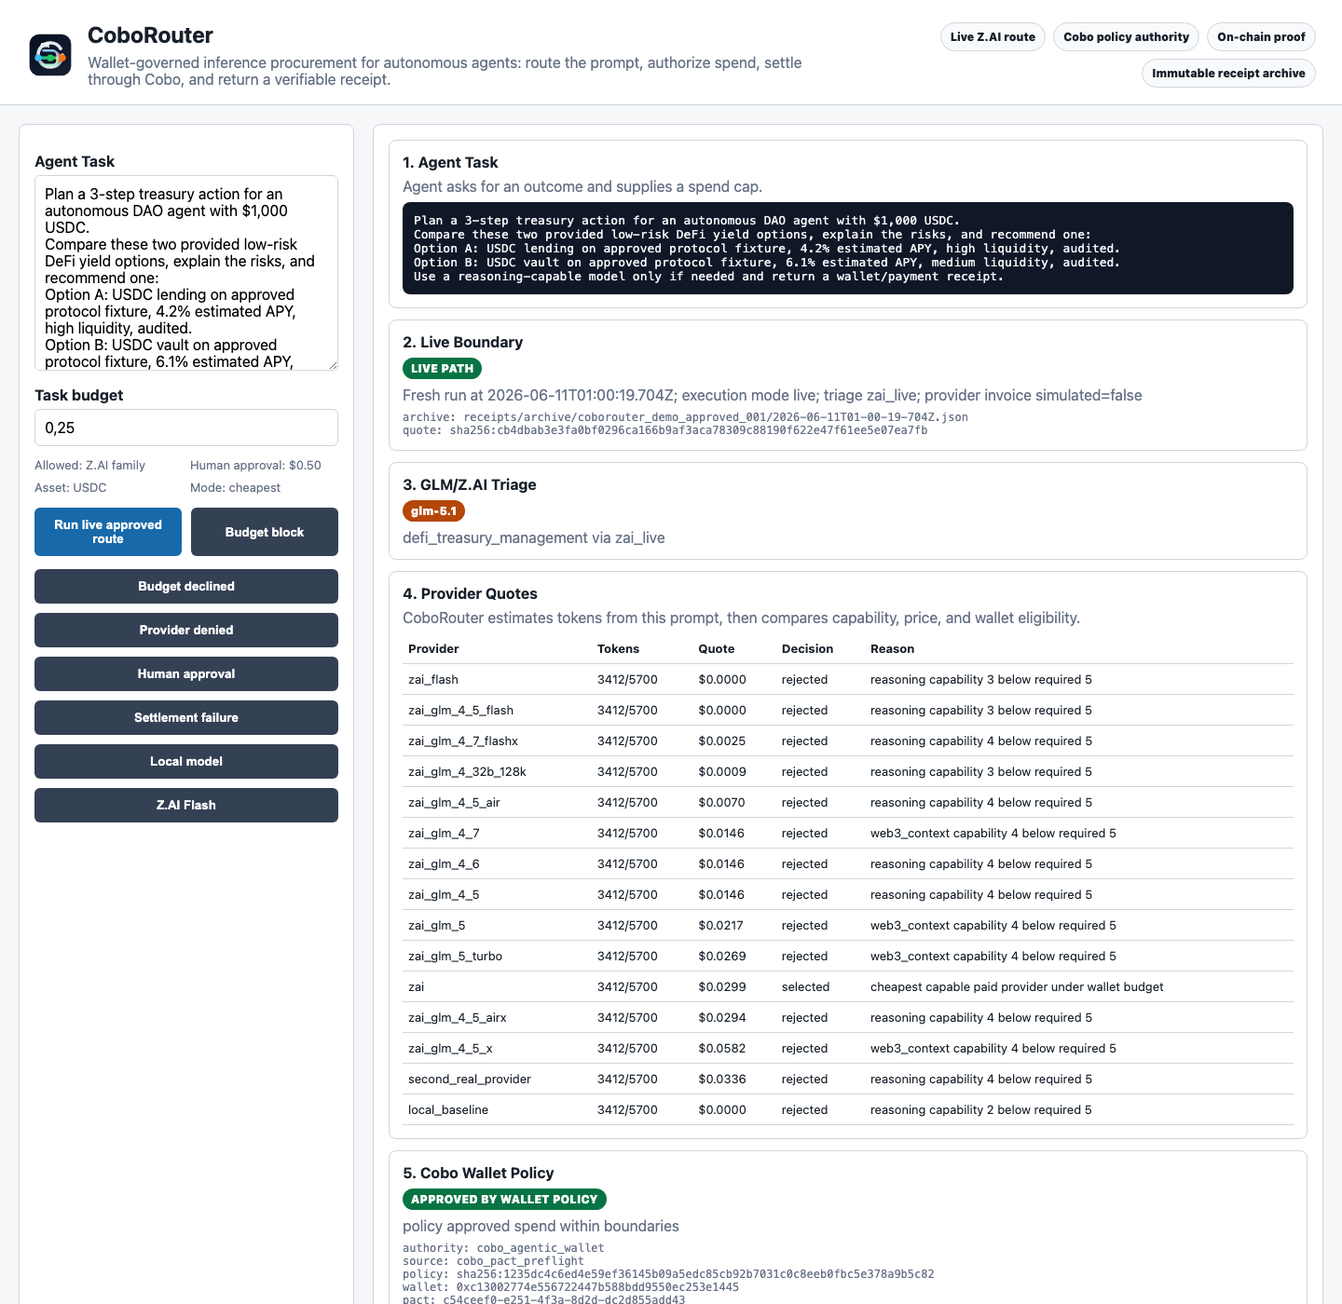
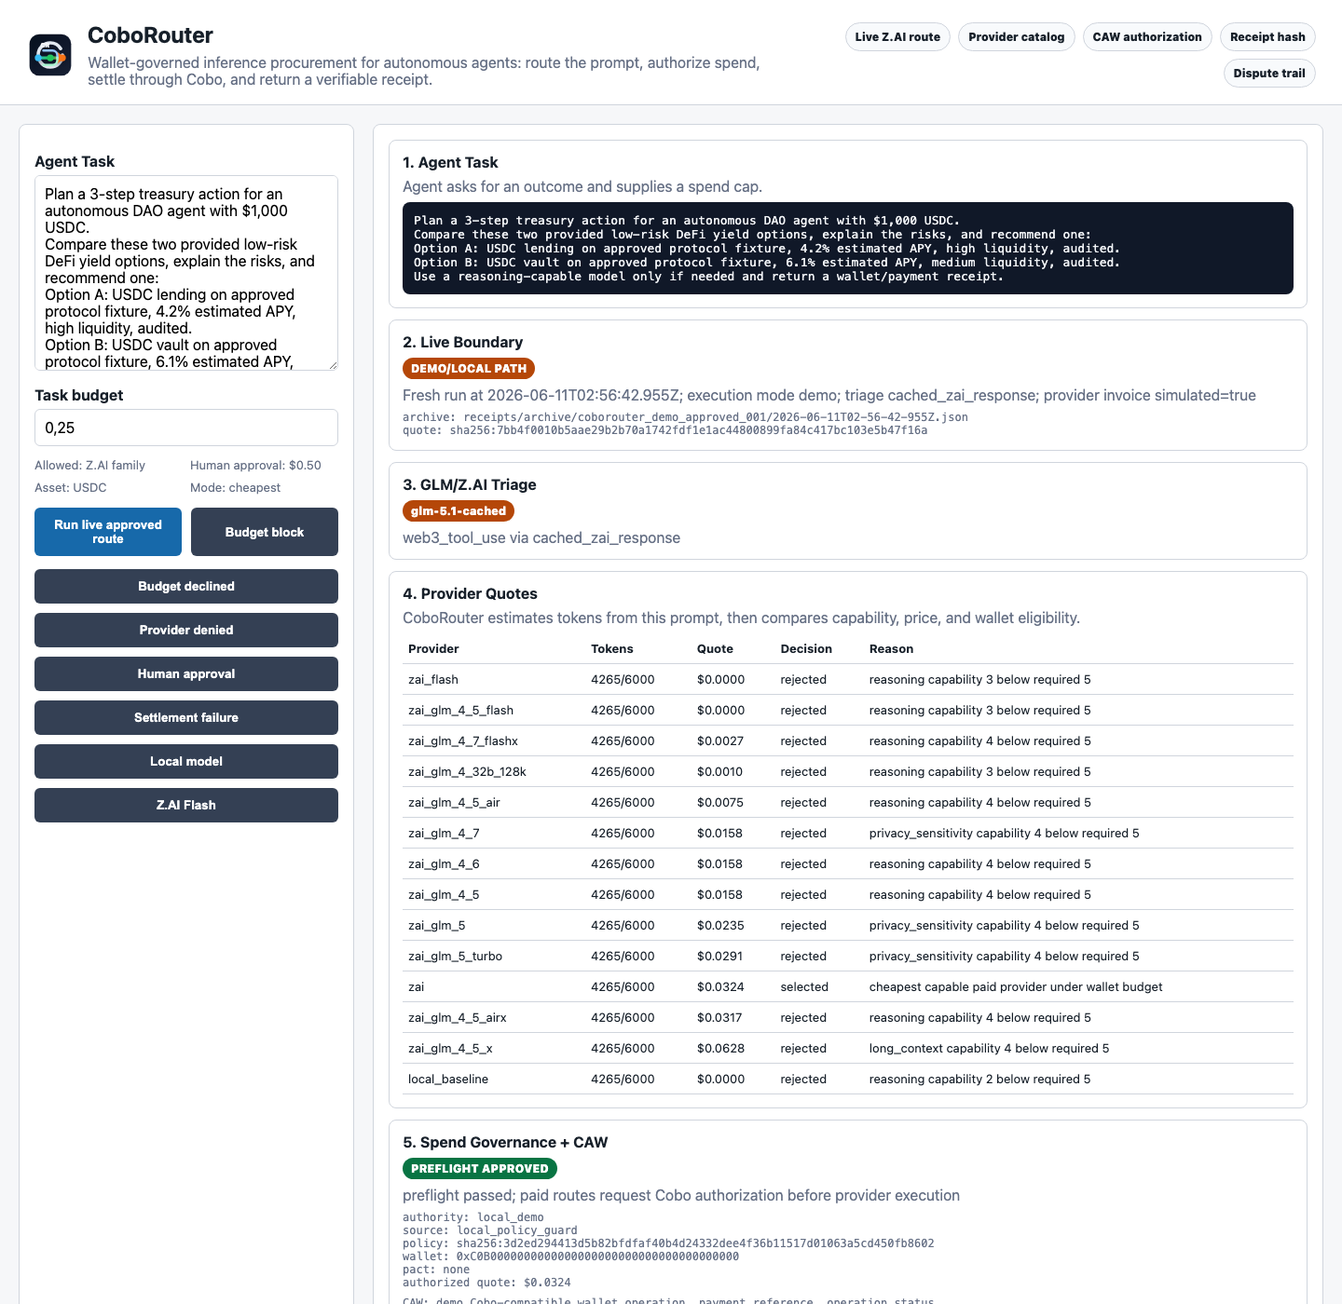
Clarify wallet authority boundaries
Make CoboRouter's proof story stricter for judges: local demo receipts now verify as Cobo operation proof without synthetic explorer links, and product copy/UI separates pre-wallet spend governance from CAW authorization and settlement.

Constraint: Hackathon judges flagged ambiguity between local preflight, demo proof, and live Cobo Agentic Wallet authority.

Rejected: Keep forcing local CI through COBO_PROOF_TYPE=on_chain | It produced synthetic explorer evidence and weakened reproducibility.

Confidence: high

Scope-risk: narrow

Directive: Reserve tx hash and explorer proof claims for live Cobo transfer receipts; blocked paths should describe pre-wallet governance unless CAW itself denies them.

Tested: npm run check; npm run secret:scan; temp no-env npm run ci:local; npm run check:live; npm run verify:receipt -- receipts/coborouter_demo_approved_001.json; npm run verify:receipt -- receipts/coborouter_demo_blocked_001.json; git diff --check

Not-tested: Fresh GitHub Actions result pending until push.

diff --git a/src/demo/timelineUi.tsx b/src/demo/timelineUi.tsx
@@ -263,7 +263,7 @@ Use a reasoning-capable model only if needed and return a wallet/payment receipt
         return;
       }
       if (scenario === "simple_zai") {
-        promptInput.value = "Summarize this product in one friendly sentence: CoboRouter helps agents choose and pay for inference under wallet policy.";
+        promptInput.value = "Summarize this product in one friendly sentence: CoboRouter helps agents choose, authorize, and pay for inference with wallet-governed receipts.";
         budgetInput.value = "0.01";
         return;
       }
@@ -297,12 +297,12 @@ Use a reasoning-capable model only if needed and return a wallet/payment receipt
       latestReceiptJson = JSON.stringify(response, null, 2);
       const blocked = response.status === "blocked" || response.status === "requires_human_approval" || response.status === "paid_failed" || response.status === "failed";
       const walletStatus = response.status === "requires_human_approval"
-        ? { className: "pending", label: "HUMAN APPROVAL REQUIRED" }
+        ? { className: "pending", label: "PRE-WALLET HUMAN APPROVAL" }
         : response.status === "paid_failed" || response.status === "failed"
           ? { className: "blocked", label: "FAILED SAFELY" }
           : response.status === "blocked"
-            ? { className: "blocked", label: "BLOCKED BY WALLET POLICY" }
-            : { className: "approved", label: "APPROVED BY WALLET POLICY" };
+            ? { className: "blocked", label: "BLOCKED BEFORE CAW SPEND" }
+            : { className: "approved", label: response.wallet_policy.policyAuthority === "cobo_agentic_wallet" ? "AUTHORIZED BY CAW" : "PREFLIGHT APPROVED" };
       const paymentStatus = response.payment.status === "settled"
         ? { className: "approved", label: "ON-CHAIN PROOF" }
         : response.payment.status === "failed"
@@ -315,16 +315,16 @@ Use a reasoning-capable model only if needed and return a wallet/payment receipt
         node("2. Live Boundary", "Fresh run at " + response.receipt.timestamp + "; execution mode " + response.receipt.execution_mode + "; triage " + response.broker_decision.triage_source + "; provider invoice simulated=" + response.provider_invoice.simulated, response.receipt.execution_mode === "live" ? { className: "approved", label: "LIVE PATH" } : { className: "pending", label: "DEMO/LOCAL PATH" }, '<p class="mono">archive: ' + esc(response.receipt.archive_path) + '<br>quote: ' + esc(response.receipt.quote_hash) + '</p>'),
         node("3. GLM/Z.AI Triage", response.broker_decision.task_type + " via " + response.broker_decision.triage_source, { className: "pending", label: response.broker_decision.triage_model }),
         node("4. Provider Quotes", "CoboRouter estimates tokens from this prompt, then compares capability, price, and wallet eligibility.", null, quoteTable(response.broker_decision.route_trace)),
-        node("5. Cobo Wallet Policy", response.wallet_policy.reason || "policy approved spend within boundaries", walletStatus, '<p class="mono">authority: ' + esc(response.wallet_policy.policyAuthority) + '<br>source: ' + esc(response.wallet_policy.policySource) + '<br>policy: ' + esc(response.wallet_policy.policyHash) + '<br>wallet: ' + esc(response.wallet_policy.walletAddress) + '<br>pact: ' + esc(response.wallet_policy.evidence.coboPactId || "none") + '<br>authorized quote: $' + esc(response.wallet_policy.approved_spend_usd) + '</p>' + boundaryDetail(response)),
+        node("5. Spend Governance + CAW", response.wallet_policy.reason || "preflight passed; paid routes request Cobo authorization before provider execution", walletStatus, '<p class="mono">authority: ' + esc(response.wallet_policy.policyAuthority) + '<br>source: ' + esc(response.wallet_policy.policySource) + '<br>policy: ' + esc(response.wallet_policy.policyHash) + '<br>wallet: ' + esc(response.wallet_policy.walletAddress) + '<br>pact: ' + esc(response.wallet_policy.evidence.coboPactId || "none") + '<br>authorized quote: $' + esc(response.wallet_policy.approved_spend_usd) + '</p>' + boundaryDetail(response)),
         node("6. Payment Proof", response.payment.status + " / " + response.payment.proof_type, paymentStatus, paymentDetail(response.payment)),
-        node("7. Answer", response.answer ? response.answer.summary : "No inference ran because wallet policy blocked the spend.", response.answer ? { className: "approved", label: "ANSWER RETURNED" } : { className: "blocked", label: "NO INFERENCE" }),
+        node("7. Answer", response.answer ? response.answer.summary : "No inference ran because spend governance stopped before provider execution.", response.answer ? { className: "approved", label: "ANSWER RETURNED" } : { className: "blocked", label: "NO INFERENCE" }),
         node("8. Receipt", "Latest receipt saved to " + response.receipt.receipt_path + "; archive copy saved to " + response.receipt.archive_path, null, reconciliationDetail(response) + receiptTools() + '<pre>' + esc(latestReceiptJson) + '</pre>')
       ].join("");
     }
 
     async function run(scenario) {
       setScenarioPrompt(scenario);
-      timeline.innerHTML = node("Running", "Calling route_inference and Cobo policy adapter...", { className: "pending", label: "WORKING" });
+      timeline.innerHTML = node("Running", "Calling route_inference, spend preflight, and Cobo adapter...", { className: "pending", label: "WORKING" });
       const response = await fetch("/api/route-inference", {
         method: "POST",
         headers: { "content-type": "application/json" },

diff --git a/src/wallet/coboAdapter.ts b/src/wallet/coboAdapter.ts
@@ -143,7 +143,7 @@ function localPolicyDecision(
 export class DemoCoboWalletAdapter implements CoboWalletAdapter {
   private readonly policyId = process.env.COBO_POLICY_ID || "cobo_policy_demo";
   private readonly walletAddress = process.env.COBO_WALLET_ADDRESS || demoWalletAddress;
-  private readonly proofType = process.env.COBO_PROOF_TYPE === "on_chain" ? "on_chain" : "cobo_operation";
+  private readonly proofType = "cobo_operation";
 
   async checkPolicy(input: WalletPolicyInput): Promise<WalletPolicyResult> {
     return localPolicyDecision(input, this.policyId, this.walletAddress, "local_demo", "local_policy_guard");
@@ -151,26 +151,24 @@ export class DemoCoboWalletAdapter implements CoboWalletAdapter {
 
   async authorizeSpend(_input: WalletPolicyInput): Promise<WalletAuthorization> {
     const operationId = shortId("cobo_op");
-    const txHash = this.proofType === "on_chain" ? `0x${operationId.replace("cobo_op_", "").padEnd(64, "0")}` : null;
     return {
       operationId,
       paymentReference: shortId("cobo_pay"),
       status: "authorized",
       proofType: this.proofType,
-      txHash,
-      explorerUrl: txHash ? `https://explorer.example/tx/${txHash}` : null
+      txHash: null,
+      explorerUrl: null
     };
   }
 
   async settleSpend(operationId: string, _actualCostUsd: number): Promise<WalletAuthorization> {
-    const txHash = this.proofType === "on_chain" ? `0x${operationId.replace("cobo_op_", "").padEnd(64, "0")}` : null;
     return {
       operationId,
       paymentReference: shortId("cobo_pay"),
       status: "settled",
       proofType: this.proofType,
-      txHash,
-      explorerUrl: txHash ? `https://explorer.example/tx/${txHash}` : null
+      txHash: null,
+      explorerUrl: null
     };
   }
 

diff --git a/src/demo/verifyReceipt.ts b/src/demo/verifyReceipt.ts
@@ -96,9 +96,19 @@ if (receipt.payment.status === "settled") {
   checks.push(
     check("Cobo operation id", Boolean(receipt.payment.operation_id), receipt.payment.operation_id || "missing"),
     check("payment reference", Boolean(receipt.payment.payment_reference), receipt.payment.payment_reference || "missing"),
-    check("tx hash", Boolean(receipt.payment.tx_hash), receipt.payment.tx_hash || "missing"),
-    check("explorer URL", Boolean(receipt.payment.explorer_url), receipt.payment.explorer_url || "missing")
+    check("supported Cobo proof type", ["cobo_operation", "on_chain"].includes(receipt.payment.proof_type), receipt.payment.proof_type)
   );
+
+  if (receipt.payment.proof_type === "on_chain") {
+    checks.push(
+      check("tx hash", Boolean(receipt.payment.tx_hash), receipt.payment.tx_hash || "missing"),
+      check("explorer URL", Boolean(receipt.payment.explorer_url), receipt.payment.explorer_url || "missing")
+    );
+  } else {
+    checks.push(
+      check("Cobo operation proof", Boolean(receipt.payment.operation_id && receipt.payment.payment_reference), `${receipt.payment.operation_id || "missing"} / ${receipt.payment.payment_reference || "missing"}`)
+    );
+  }
 }
 
 if (receipt.status === "blocked" || receipt.status === "requires_human_approval") {

diff --git a/src/broker/toolSchema.ts b/src/broker/toolSchema.ts
@@ -1,6 +1,6 @@
 export const routeInferenceToolSchema = {
   name: "route_inference",
-  description: "Route an agent task to a capable model and pay through a policy-bound Cobo Agentic Wallet.",
+  description: "Route an agent task to a capable model, run pre-wallet spend checks, authorize paid routes through Cobo Agentic Wallet, and return an auditable receipt.",
   input_schema: {
     type: "object",
     required: ["prompt", "routing_mode", "max_spend_usd", "allowed_providers"],
@@ -17,14 +17,14 @@ export const routeInferenceToolSchema = {
       max_spend_usd: {
         type: "number",
         minimum: 0,
-        description: "Per-task inference spend cap enforced by wallet policy."
+        description: "Per-task inference spend cap checked before wallet authorization and recorded in the receipt."
       },
       allowed_providers: {
         type: "array",
         items: {
           type: "string"
         },
-        description: "Caller/provider allowlist. Cobo policy also enforces deny-by-default provider boundaries."
+        description: "Agent/provider allowlist used for pre-wallet routing and spend safety."
       },
       require_receipt: {
         type: "boolean",

diff --git a/src/inference/inferenceAdapter.ts b/src/inference/inferenceAdapter.ts
@@ -107,7 +107,7 @@ export async function runInference(provider: ProviderConfig, prompt: string, est
       : [
           `Start with ${safer.name} for the $1,000 USDC treasury because liquidity is ${safer.liquidity}.`,
           `Treat ${higherYield.name} as a yield-upside option only if the agent accepts medium liquidity and extra strategy risk.`,
-          "Keep the action bounded by wallet policy, log the route decision, and attach the Cobo operation proof to the receipt."
+          "Keep the action bounded by spend governance, log the route decision, and attach the Cobo operation proof to the receipt."
         ],
     providerRequestId: `${provider.provider_id}_demo_req`,
     providerInvoiceId: provider.requires_wallet_payment ? `${provider.provider_id}_demo_invoice` : null,

diff --git a/src/broker/routeInference.ts b/src/broker/routeInference.ts
@@ -44,7 +44,7 @@ function localOnlyPrompt(): string {
 }
 
 function simpleZaiPrompt(): string {
-  return "Summarize this product in one friendly sentence: CoboRouter helps agents choose and pay for inference under wallet policy.";
+  return "Summarize this product in one friendly sentence: CoboRouter helps agents choose, authorize, and pay for inference with wallet-governed receipts.";
 }
 
 export function demoRequest(scenario: Exclude<DemoScenario, "custom">): RouteInferenceRequest {

diff --git a/src/config/env.ts b/src/config/env.ts
@@ -19,6 +19,6 @@ export async function loadEnv(path = ".env"): Promise<void> {
       }
     }
   } catch {
-    // .env is optional; the demo runs with cached triage and demo wallet policy.
+    // .env is optional; the demo runs with cached triage and demo Cobo operation proof.
   }
 }

diff --git a/README.md b/README.md
@@ -6,7 +6,7 @@
 
 ### Wallet-governed inference procurement for autonomous agents
 
-**CoboRouter lets autonomous agents safely buy intelligence. It combines model routing with wallet-native spend policy, so every inference purchase is governed, paid, and receipted.**
+**CoboRouter lets autonomous agents safely buy intelligence. It combines model routing, pre-wallet spend governance, Cobo Agentic Wallet authorization, and receipts so paid inference can be governed, settled, and audited.**
 
 [![Verify CoboRouter](https://github.com/CoboRouter/CoboRouter/actions/workflows/verify.yml/badge.svg)](https://github.com/CoboRouter/CoboRouter/actions/workflows/verify.yml)
 ![Cobo Agentic Wallet](https://img.shields.io/badge/Cobo-Agentic%20Wallet-111827?style=for-the-badge)
@@ -29,12 +29,12 @@ CoboRouter is an **agentic resource procurement flow** for wallet-bound autonomo
 
 1. An agent sends a task prompt and spend cap.
 2. CoboRouter scores the prompt and routes to the cheapest capable provider.
-3. Cobo Agentic Wallet policy approves or blocks spend.
-4. Approved jobs call live Z.AI / GLM-5.1.
-5. CoboRouter settles a live Cobo wallet transaction.
+3. CoboRouter blocks invalid spend before any wallet operation.
+4. Approved paid jobs request Cobo Agentic Wallet authorization.
+5. CoboRouter calls live Z.AI / GLM-5.1 and settles through Cobo.
 6. The agent receives the answer plus a tamper-evident receipt.
 
-Agents will need to spend money autonomously. Wallet policy without model-routing intelligence is too dumb; model routing without wallet-native controls is too unsafe. CoboRouter joins them.
+Agents will need to spend money autonomously. Model routing without spend governance is too unsafe; wallet authorization without prompt intelligence is too blunt. CoboRouter joins them.
 
 ## Use CoboRouter
 
@@ -56,7 +56,7 @@ http://localhost:4173
 Click **Run live approved route** to watch the procurement timeline update:
 
 ```text
-Agent Task -> Z.AI Triage -> Provider Quotes -> Cobo Policy -> Payment/Block -> Inference -> Receipt
+Agent Task -> Z.AI Triage -> Provider Quotes -> Spend Preflight -> Cobo Authorization -> Inference -> Receipt
 ```
 
 Call it as an agent tool:
@@ -113,7 +113,7 @@ Agents call only `route_inference`. They do not need provider keys, wallet keys,
 | --- | --- |
 | Prompt triage | CoboRouter scores the task before choosing a model. |
 | Provider procurement | The agent asks for an outcome; CoboRouter buys the right inference. |
-| Wallet policy | Cobo Agentic Wallet approves, blocks, or pauses spend. |
+| Spend governance | CoboRouter blocks invalid spend before wallet authorization; approved paid routes are authorized and settled through Cobo Agentic Wallet. |
 | Live execution | Approved paid routes call Z.AI / GLM and settle through Cobo. |
 | Receipts | Every route returns a prompt hash, quote hash, route trace, policy result, provider invoice, payment proof, and receipt hash. |
 
@@ -136,7 +136,7 @@ Pricing in this hackathon build is operator-controlled registry data. Live execu
 
 Most LLM routers answer: **Which model should I call?**
 
-CoboRouter answers: **Can this autonomous agent procure this inference under wallet policy, pay for it safely, and prove what happened?**
+CoboRouter answers: **Can this autonomous agent procure this inference under spend governance, pay for it safely, and prove what happened?**
 
 | Generic router | CoboRouter |
 | --- | --- |
@@ -168,11 +168,12 @@ flowchart LR
   A["Agent prompt + spend cap"] --> B["route_inference tool"]
   B --> C["Prompt triage"]
   C --> D["Provider quote engine"]
-  D --> E{"Cobo policy"}
-  E -->|"blocked"| F["No inference, no spend, blocked receipt"]
-  E -->|"approved"| G["Live Z.AI / GLM-5.1 call"]
-  G --> H["Cobo transfer settlement"]
-  H --> I["Answer + receipt + tx hash"]
+  D --> E{"Spend preflight"}
+  E -->|"blocked before wallet"| F["No inference, no spend, blocked receipt"]
+  E -->|"approved paid route"| G["Cobo authorization"]
+  G --> H["Live Z.AI / GLM-5.1 call"]
+  H --> I["Cobo settlement"]
+  I --> J["Answer + receipt + proof"]
 ```
 
 ## Live proof
@@ -184,7 +185,7 @@ This repo includes receipts from a live end-to-end run.
 | Prompt triage | `zai_live` using `glm-5.1` |
 | Selected model | `zai / glm-5.1` |
 | Z.AI provider invoice | `provider_invoice.simulated=false` |
-| Cobo policy / pact | `c54ceef0-e251-4f3a-8d2d-dc2d855add43` |
+| Cobo pact / policy reference | `c54ceef0-e251-4f3a-8d2d-dc2d855add43` |
 | Agent wallet | `0xc13002774e556722447b588bdd9550ec253e1445` |
 | Cobo operation | `7406658f-973a-4fa7-8a62-4c072225c107` |
[1 lines of base64/hex data omitted]
@@ -192,11 +193,11 @@ This repo includes receipts from a live end-to-end run.
 
 ## Policy behavior
 
-CoboRouter handles successful procurement, wallet-policy denial, local execution, and lightweight model routing. These are product behaviors: the agent can spend, get blocked, stay local, or pause for a human without leaving the wallet policy boundary.
+CoboRouter handles successful procurement, pre-wallet spend denial, local execution, and lightweight model routing. These are product behaviors: the agent can spend, get blocked before wallet authorization, stay local, or pause for a human with the control boundary visible in the receipt.
 
 | Scenario | Command | Expected proof |
 | --- | --- | --- |
-| Wallet policy declines overspend | `npm run demo:budget-declined` | `wallet_policy.reason=quote_exceeds_task_budget`, `payment.status=not_created` |
+| Preflight declines overspend | `npm run demo:budget-declined` | `wallet_policy.reason=quote_exceeds_task_budget`, `payment.status=not_created` |
 | Provider is not allowlisted | `npm run demo:provider-denied` | `wallet_policy.reason=provider_not_allowlisted`, no inference |
 | Human approval is required | `npm run demo:human-approval` | `wallet_policy.result=requires_human_approval`, no payment |
 | Settlement fails safely | `npm run demo:settlement-failure` | `status=paid_failed`, no provider call, reconciliation receipt |
@@ -227,13 +228,13 @@ Routing uses the same quote table for every model: capability fit, estimated cos
 
 ## Demo screens
 
-| Wallet policy blocks overspend | Approved route settles on-chain |
+| Preflight blocks overspend | Approved route settles on-chain |
 | --- | --- |
-| ![Blocked Cobo policy path](docs/screenshots/blocked.png) | ![Approved Cobo settlement path](docs/screenshots/approved.png) |
+| ![Blocked pre-wallet spend path](docs/screenshots/blocked.png) | ![Approved Cobo settlement path](docs/screenshots/approved.png) |
 
 ## Proof
 
-Operators can verify the agent tool surface, wallet policy outcomes, payment proof, and receipt integrity from the repo.
+Operators can verify the agent tool surface, pre-wallet spend outcomes, Cobo payment proof, and receipt integrity from the repo.
 
 | What to check | Where |
 | --- | --- |
@@ -245,16 +246,24 @@ Operators can verify the agent tool surface, wallet policy outcomes, payment pro
 | Policy behavior | `npm run demo:budget-declined`, `npm run demo:provider-denied`, `npm run demo:human-approval`, `npm run demo:settlement-failure` |
 | Routing behavior | `npm run demo:local`, `npm run demo:zai-flash` |
 | Receipt verifier | `npm run verify:receipt -- receipts/coborouter_demo_approved_001.json` |
-| Agentic E2E proof | `npm run e2e:agent` expects `25 passed, 0 failed` |
+| Agentic E2E proof | `npm run e2e:agent` expects `31 passed, 0 failed` |
 | Wallet proof | Cobo operation `7406658f-973a-4fa7-8a62-4c072225c107` and Sepolia tx above |
 
-Receipts record `receipt.execution_mode`, Z.AI invoice status, Cobo policy authority/source, prompt-derived token estimates, `control_boundary`, `reconciliation`, `receipt.receipt_hash`, and an archive copy under `receipts/archive/...`.
+Fresh clones verify without credentials:
+
+```bash
+npm run ci:local
+```
+
+Local mode uses cached/deterministic Z.AI behavior and Cobo operation proof. It does not mint synthetic explorer links. Live mode requires `.env` credentials and is the only mode expected to produce a Sepolia transaction hash.
+
+Receipts record `receipt.execution_mode`, Z.AI invoice status, spend authority/source, prompt-derived token estimates, `control_boundary`, `reconciliation`, `receipt.receipt_hash`, and an archive copy under `receipts/archive/...`.
 
 The demo API also includes product guardrails: bounded request bodies, bounded prompt length, optional `COBOROUTER_API_KEY` bearer auth, per-client rate limiting, and idempotency-key conflict detection for replay safety.
 
 ## Operating Lifecycle
 
-1. Configure wallet policy, settlement destination, provider allowlist, and API access.
+1. Configure Cobo wallet credentials, settlement destination, provider allowlist, spend caps, and API access.
 2. Agents discover `/api/tool-schema` and `/api/providers`.
 3. Agents call `/api/route-inference` with a prompt, routing preference, provider allowlist, spend cap, and idempotency key.
 4. CoboRouter triages the prompt, quotes providers, and runs pre-wallet safety checks.
@@ -375,12 +384,12 @@ The receipt is designed for operators and agents to audit quickly.
 | --- | --- |
 | [`src/broker/routeInference.ts`](src/broker/routeInference.ts) | End-to-end orchestration: triage, route, wallet check, inference, receipt |
 | [`agent/coborouter.route_inference.tool.json`](agent/coborouter.route_inference.tool.json) | Portable agent tool manifest for `route_inference` |
-| [`src/wallet/coboAdapter.ts`](src/wallet/coboAdapter.ts) | Cobo Agentic Wallet policy + transfer settlement adapter |
+| [`src/wallet/coboAdapter.ts`](src/wallet/coboAdapter.ts) | Cobo Agentic Wallet authorization + transfer settlement adapter |
 | [`src/triage/zaiTriage.ts`](src/triage/zaiTriage.ts) | GLM/Z.AI prompt triage with cached fallback |
 | [`src/inference/inferenceAdapter.ts`](src/inference/inferenceAdapter.ts) | Live provider execution and invoice boundary |
 | [`src/demo/e2eAgentClient.ts`](src/demo/e2eAgentClient.ts) | External agent-style HTTP proof |
 | [`src/demo/verifyReceipt.ts`](src/demo/verifyReceipt.ts) | Offline receipt hash and proof verifier |
-| [`src/demo/timelineUi.tsx`](src/demo/timelineUi.tsx) | Timeline UI for inspecting routing, wallet policy, settlement, and receipt state |
+| [`src/demo/timelineUi.tsx`](src/demo/timelineUi.tsx) | Timeline UI for inspecting routing, spend preflight, settlement, and receipt state |
 | [`receipts/coborouter_demo_approved_001.json`](receipts/coborouter_demo_approved_001.json) | Live approved receipt |
 | [`receipts/coborouter_demo_blocked_001.json`](receipts/coborouter_demo_blocked_001.json) | Blocked no-spend receipt |
 | [`receipts/coborouter_edge_budget_declined_001.json`](receipts/coborouter_edge_budget_declined_001.json) | Explicit budget-declined receipt |
